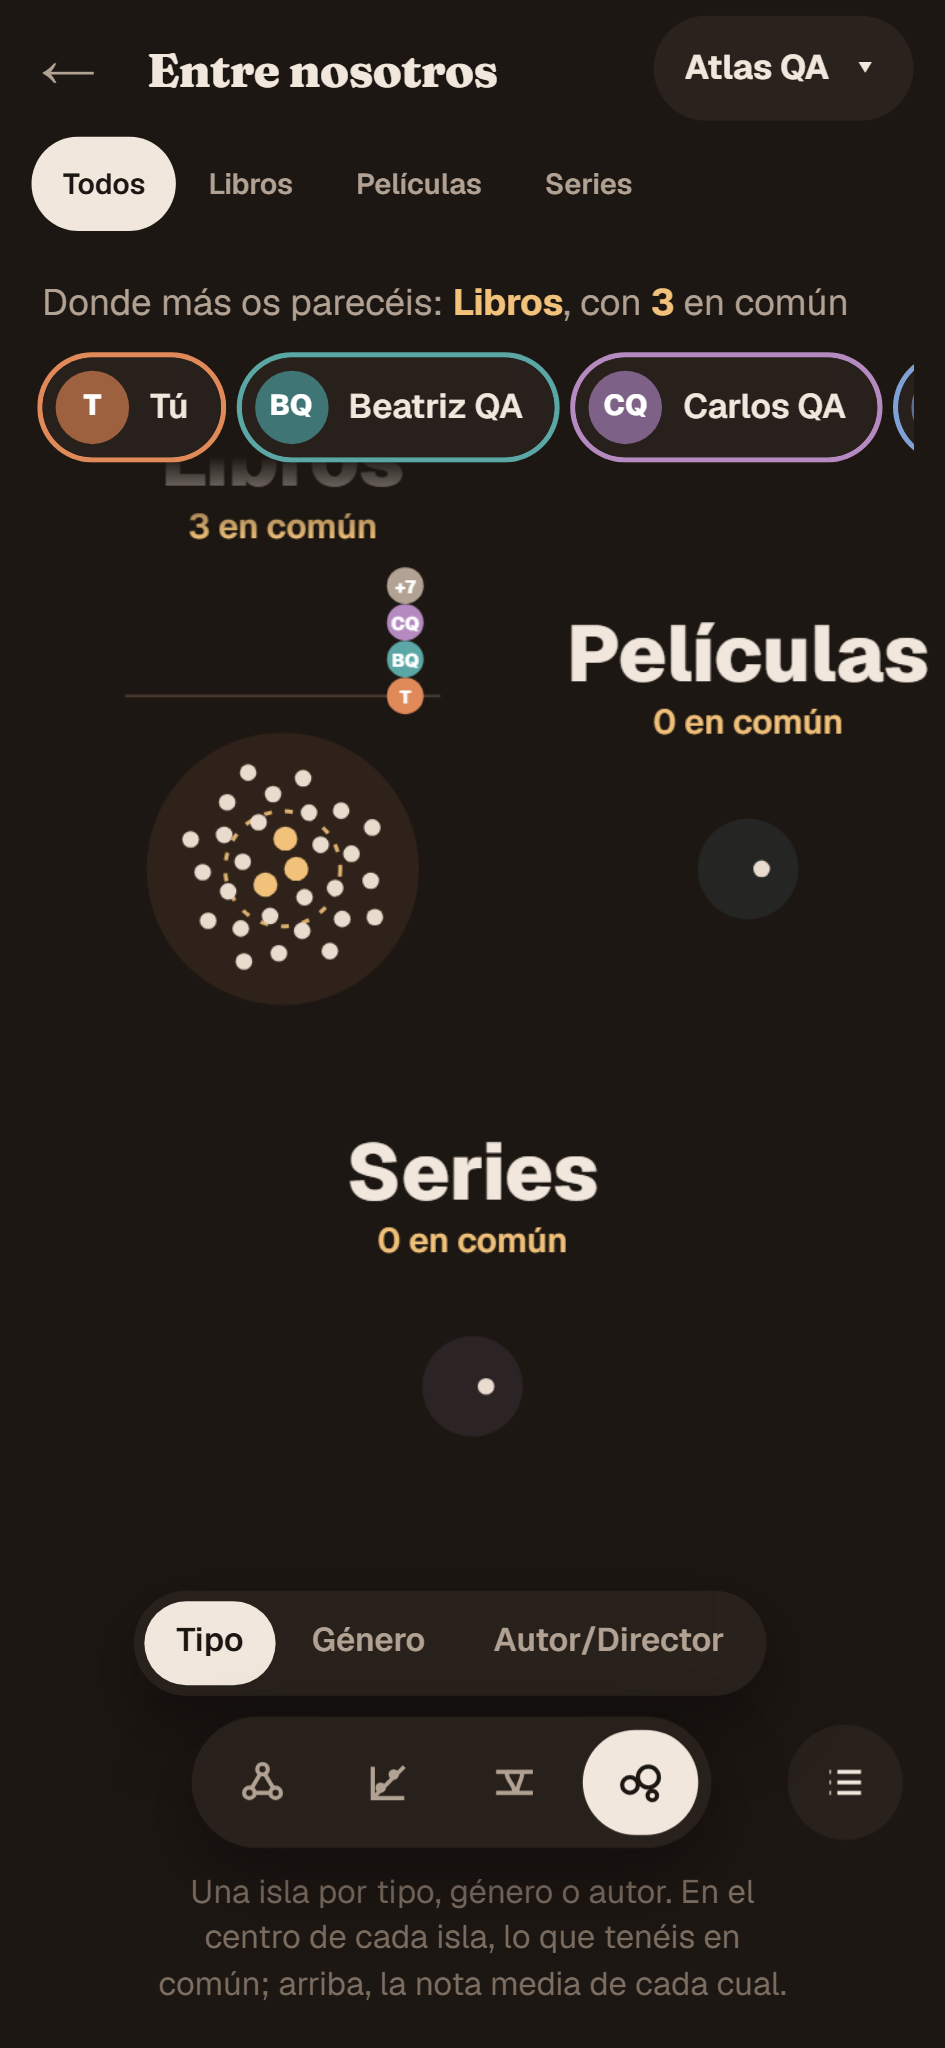
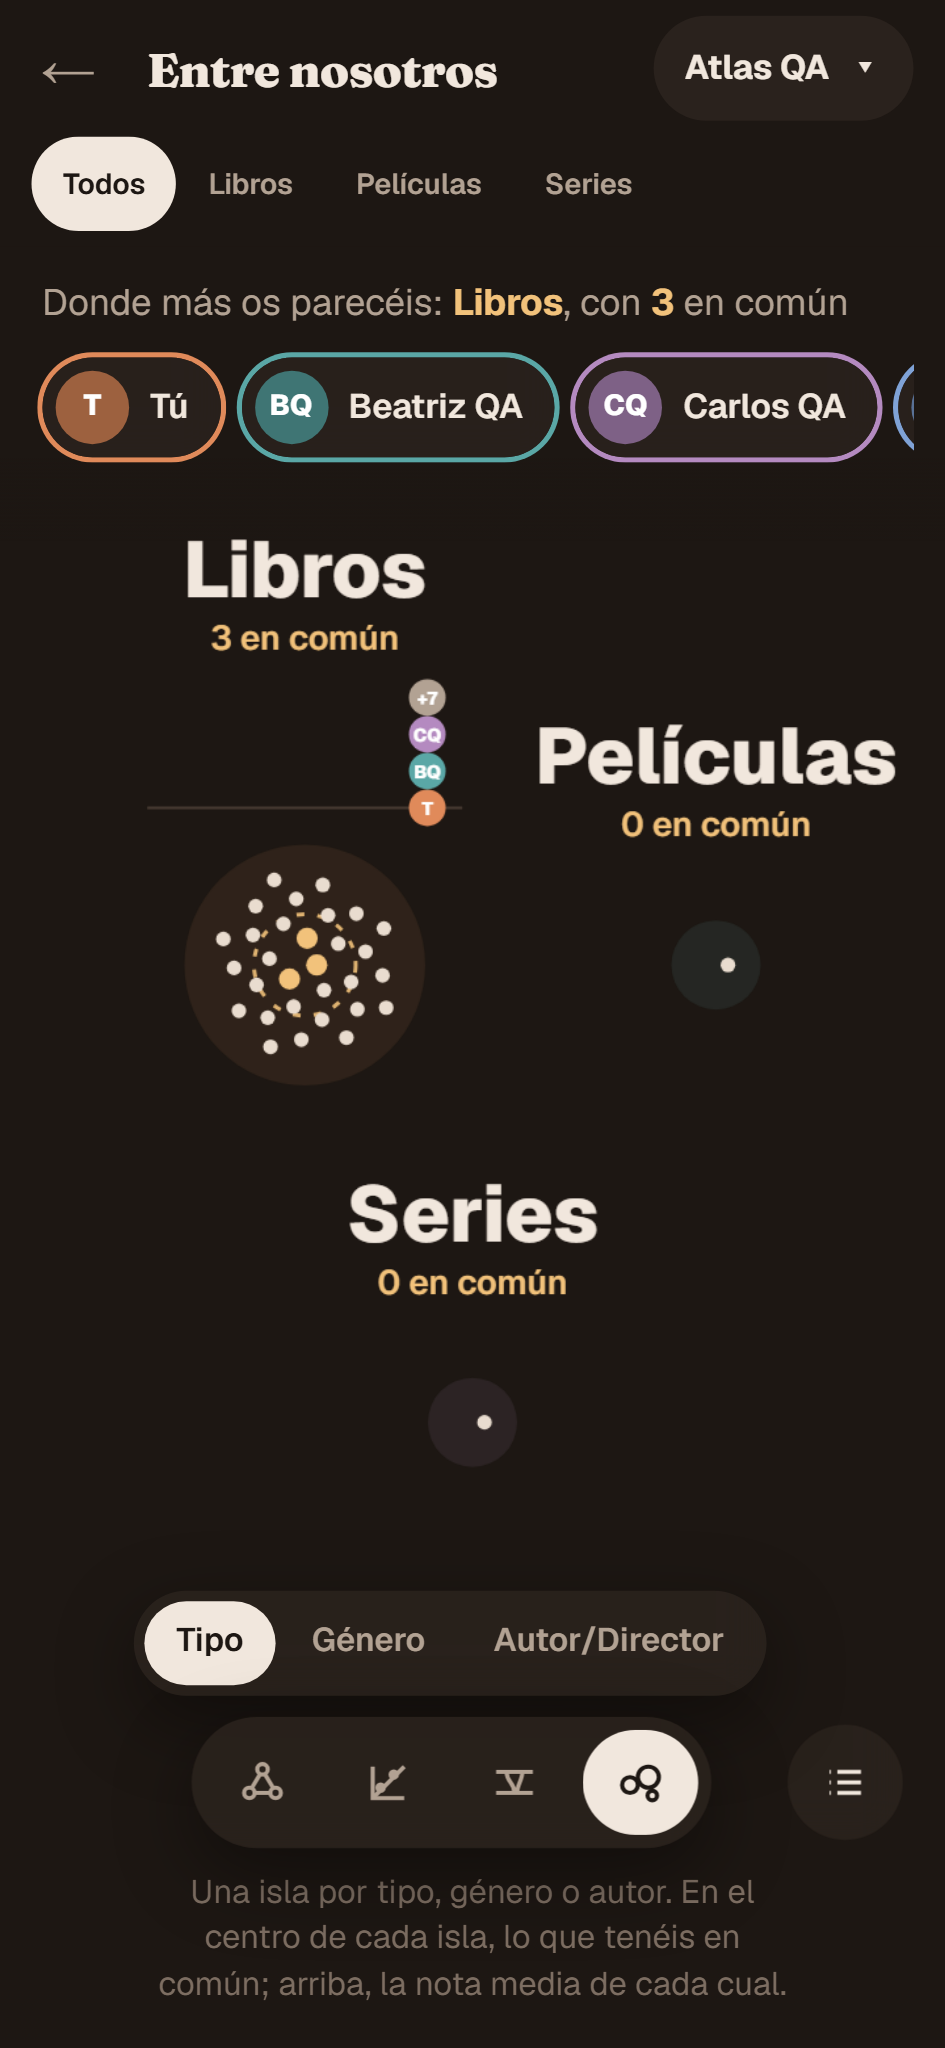
fix(entre-nosotros): títulos de Islas visibles en móviles estrechos

diff --git a/src/components/comparisons/atlas/paint-islas.ts b/src/components/comparisons/atlas/paint-islas.ts
@@ -7,6 +7,40 @@ import type { PaintView } from './atlas-palette';
 export type IslandText = { title: (island: Island) => string; common: (count: number) => string };
 const TYPE_TINT = { book: 'book', movie: 'movie', series: 'series' } as const;
 const STACK_MAX = 4;
+/** Screen px from a disc's top edge up to the title baseline and «n en común» baseline, before the stack lifts them. */
+const TITLE_GAP = 52, COMMON_GAP = 32;
+/** Largest title font (px); the fit reserves it whole, since the font size follows the zoom the fit is choosing. */
+const TITLE_MAX_PX = 30;
+const STRIP_WIDTH = 120;
+
+/**
+ * Faces with the same mean (to 0.1) stack upwards, 14 px per level as in the RatingScale. Dots are 14 px wide,
+ * so close but different means (8.9 and 9.0) would still cover each other: each dot takes the lowest level
+ * free of any dot less than 14 px away. Positions are screen px along the strip (0…STRIP_WIDTH), so they do
+ * not depend on the camera. `lift` is how far the texts rise with the (at most STACK_MAX high) stack.
+ */
+function placeFaces(island: Island, people: AtlasPerson[]) {
+  const placed: { person: AtlasPerson; x: number; level: number }[] = [];
+  for (const { userId, mean } of island.means) {
+    const person = people.find(item => item.id === userId); if (!person) continue;
+    const x = (Math.round(mean * 10) / 10 - 1) / 9 * STRIP_WIDTH;
+    let level = 0;
+    while (placed.some(dot => dot.level === level && Math.abs(dot.x - x) < 14)) level++;
+    placed.push({ person, x, level });
+  }
+  const lift = Math.max(0, ...placed.map(dot => Math.min(dot.level, STACK_MAX - 1))) * 14;
+  return { placed, lift };
+}
+
+/**
+ * Screen px the painter draws above the highest disc (title + «n en común» + means strip, risen with the stack).
+ * These texts keep their pixel size at any zoom, so a world margin in the extent cannot hold them: on a narrow
+ * phone the fit zooms out and a world margin shrinks below them. The engine adds this to the top inset instead.
+ */
+export function islandLabelRoom(layout: IslandsLayout, people: AtlasPerson[]): number {
+  if (!layout.islands.length) return 0;
+  return TITLE_GAP + TITLE_MAX_PX + Math.max(...layout.islands.map(island => placeFaces(island, people).lift));
+}
 
 /** Island discs, gold dashed ring around the common core, title + «n en común», and a 1–10 strip with each active face's mean. */
 export function paintIslasBack({ ctx, cam, vp, palette, text }: PaintView, { layout, people, text: words }: { layout: IslandsLayout; people: AtlasPerson[]; text?: IslandText }) {
@@ -20,28 +54,19 @@ export function paintIslasBack({ ctx, cam, vp, palette, text }: PaintView, { lay
       ctx.beginPath(); ctx.arc(c.x, c.y, island.core * k, 0, Math.PI * 2); ctx.stroke(); ctx.setLineDash([]); ctx.lineWidth = 1; ctx.globalAlpha = 1;
     }
     if (!words) continue;
-    // Faces with the same mean (to 0.1) stack upwards, 14 px per level as in the RatingScale. Dots are 14 px wide,
-    // so close but different means (8.9 and 9.0) would still cover each other: each dot takes the lowest level
-    // free of any dot less than 14 px away. A stack is at most 4 high (10 equal faces would push the title off
-    // screen): from the 4th up, a column's extra faces fold into one «+n» dot. The texts rise with the stack.
-    const width = 120, x0 = c.x - width / 2, y = c.y - r - 14;
-    const placed: { person: AtlasPerson; x: number; level: number }[] = [];
-    for (const { userId, mean } of island.means) {
-      const person = people.find(item => item.id === userId); if (!person) continue;
-      const x = x0 + (Math.round(mean * 10) / 10 - 1) / 9 * width;
-      let level = 0;
-      while (placed.some(dot => dot.level === level && Math.abs(dot.x - x) < 14)) level++;
-      placed.push({ person, x, level });
-    }
+    // A stack is at most 4 high (10 equal faces would push the title off screen): from the 4th up, a column's
+    // extra faces fold into one «+n» dot. The texts rise with the stack.
+    const width = STRIP_WIDTH, x0 = c.x - width / 2, y = c.y - r - 14;
+    const { placed: local, lift } = placeFaces(island, people);
+    const placed = local.map(dot => ({ ...dot, x: x0 + dot.x }));
     const dots = placed.filter(dot => dot.level < STACK_MAX - 1);
     const folds: { x: number; people: AtlasPerson[] }[] = [];
     for (const dot of placed.filter(item => item.level >= STACK_MAX - 1)) {
       const fold = folds.find(item => Math.abs(item.x - dot.x) < 14);
       if (fold) fold.people.push(dot.person); else folds.push({ x: dot.x, people: [dot.person] });
     }
-    const lift = Math.max(0, ...placed.map(dot => Math.min(dot.level, STACK_MAX - 1))) * 14;
-    text(words.title(island), c.x, c.y - r - 52 - lift, `800 ${Math.min(30, Math.max(14, 22 * k * 2.6))}px ${palette.font}`, palette.fg, 'center');
-    text(words.common(island.common), c.x, c.y - r - 32 - lift, `600 13px ${palette.font}`, palette.glow, 'center');
+    text(words.title(island), c.x, c.y - r - TITLE_GAP - lift, `800 ${Math.min(TITLE_MAX_PX, Math.max(14, 22 * k * 2.6))}px ${palette.font}`, palette.fg, 'center');
+    text(words.common(island.common), c.x, c.y - r - COMMON_GAP - lift, `600 13px ${palette.font}`, palette.glow, 'center');
     if (island.means.length) {
       ctx.strokeStyle = palette.line; ctx.lineWidth = 1; ctx.beginPath(); ctx.moveTo(x0, y); ctx.lineTo(x0 + width, y); ctx.stroke();
       const face = (x: number, level: number, color: string, label: string) => {

diff --git a/src/components/comparisons/atlas/atlas-canvas.test.tsx b/src/components/comparisons/atlas/atlas-canvas.test.tsx
@@ -12,6 +12,8 @@ import { buildScene, type Lens } from '@/lib/comparisons/atlas/scene';
 import { fit } from '@/lib/comparisons/atlas/camera';
 import { createRef } from 'react';
 import { AtlasCanvas, type AtlasCanvasHandle } from './atlas-canvas';
+import { paintIslasBack } from './paint-islas';
+import type { PaintView, Palette } from './atlas-palette';
 
 const snapshot: Snapshot = { group: { id: 'g', name: 'G', revision: 1, members: ['a', 'b'].map(id => ({ slotId: id, userId: id, name: id, avatarUrl: null, available: true })) },
   format: 'all', excludedSeriesWithoutEpisodes: 0, catalog: [],
@@ -372,6 +374,38 @@ describe('AtlasCanvas', () => {
       flush();
       expect(host.dataset.atlasZoom).toBe(fitZoom(800, 600, 200, 120));
     });
+  });
+
+  it('Islas en un móvil estrecho: el encaje deja los títulos de las islas bajo la fila de caras, no debajo', () => {
+    // Like the QA fixture: 10 people, 30 books rated alike by all (a 4-high stack of faces), a film and a series.
+    const ids = 'abcdefghij'.split('');
+    const keys = [...Array.from({ length: 30 }, (_, i) => `book:${i + 1}`), 'movie:1', 'series:1'] as WorkKey[];
+    const wide: Snapshot = { ...snapshot, group: { ...snapshot.group, members: ids.map(id => ({ slotId: id, userId: id, name: id, avatarUrl: null, available: true })) },
+      works: ids.flatMap(userId => keys.map(key => ({ userId, key, rating: key.startsWith('book') ? 9 : null, date: null, orderUnknown: false, progress: null }))) };
+    const model = atlasModel(wide, 'a', 'Tú');
+    const islas = layoutIslands(model.people, model.works, ids, 'type');
+    const islasScene = buildScene('islas', model.works, ids, { quien: layoutQuien(model.people, model.works),
+      opinion: layoutOpinion(model.people, model.works, ids), tiempo: layoutTiempo(model.people, model.works, ids), islas });
+    const width = 360, height = 740, insets = { top: 176, bottom: 175 };
+    vi.spyOn(Element.prototype, 'clientWidth', 'get').mockReturnValue(width);
+    vi.spyOn(Element.prototype, 'clientHeight', 'get').mockReturnValue(height);
+    const islandText = { title: () => 'Libros', common: (n: number) => `${n} en común` };
+    const onSettled = vi.fn();
+    render(<AtlasCanvas {...props} people={model.people} works={model.works} active={ids} scene={islasScene} islas={islas}
+      islandText={islandText} insets={insets} onSettled={onSettled}/>);
+    flush();
+    const cam = pick(onSettled.mock.lastCall![0]);
+    // Paint with the settled camera and read where the titles land (y is the baseline; the font size is in the font).
+    const text = vi.fn<PaintView['text']>();
+    const ctx = new Proxy({}, { get: () => () => {}, set: () => true }) as unknown as CanvasRenderingContext2D;
+    paintIslasBack({ ctx, cam, vp: { width, height }, palette: { font: 'sans', type: {} } as Palette, text }, { layout: islas, people: model.people, text: islandText });
+    const titles = text.mock.calls.filter(([value]) => value === 'Libros');
+    expect(titles).toHaveLength(islas.islands.length);
+    const top = Math.min(...titles.map(([, , y, font]) => y - Number(/(\d+(?:\.\d+)?)px/.exec(font)![1])));
+    expect(top).toBeGreaterThanOrEqual(insets.top);
+    // And the discs still fit above the dock.
+    const bottom = Math.max(...islas.islands.map(island => (island.y + island.r - cam.y) * cam.k + height / 2));
+    expect(bottom).toBeLessThanOrEqual(height - insets.bottom);
   });
 });
 const pick = ({ x, y, k }: { x: number; y: number; k: number }) => ({ x, y, k });

diff --git a/src/components/comparisons/atlas/atlas-engine.ts b/src/components/comparisons/atlas/atlas-engine.ts
@@ -14,7 +14,7 @@ import { paintLinks } from './paint-links';
 import { paintTiempoBack } from './paint-tiempo';
 import cdnLoader from '@/lib/images/cdn-loader';
 import { createImageCache, type ImageLike } from '@/lib/comparisons/atlas/image-cache';
-import { paintIslasBack, type IslandText } from './paint-islas';
+import { islandLabelRoom, paintIslasBack, type IslandText } from './paint-islas';
 import { nearestSprite, probeOf, stepSprites, syncSprites, type Sprite } from './atlas-sprites';
 
 export { COVER_ZOOM, TITLE_ZOOM } from './atlas-palette';
@@ -52,7 +52,18 @@ export function createAtlasEngine(canvas: HTMLCanvasElement, host: HTMLElement, 
   const insets = () => props().insets ?? { top: 75, bottom: 75 };
   /** Shifts a camera so that its focus lands in the middle of the band between the overlays. */
   const framed = (c: Camera): Camera => { const { top, bottom } = insets(); return { ...c, y: c.y - (top - bottom) / 2 / c.k }; };
-  const fitCamera = () => { const { top, bottom } = insets(); return framed(fit(props().scene.extent, vp, { x: 32, y: top + bottom + 24 })); };
+  /** Screen px the lens paints above its extent (Islas titles), reserved on top of the overlays when fitting. */
+  const labelRoom = () => { const p = props(); return p.scene.lens === 'islas' && p.islandText ? islandLabelRoom(p.islas, p.people) : 0; };
+  const fitCamera = () => {
+    const { top, bottom } = insets(), extent = props().scene.extent, room = labelRoom();
+    const c = fit(extent, vp, { x: 32, y: top + bottom + 24 });
+    if (!room) return framed(c);
+    // The labels only cap the zoom: folding them into `fit`'s pad would trip its «band under 40 %» fallback on a
+    // phone and drop the vertical constraint altogether.
+    const band = vp.height - top - bottom - 24 - room;
+    const k = band > 0 ? clamp(Math.min(c.k, band / (extent.maxY - extent.minY)), MIN_ZOOM, MAX_ZOOM) : c.k;
+    return { ...c, k, y: c.y - (top + room - bottom) / 2 / k };
+  };
   let lastFit: Camera | null = null; let insetsKey = ''; let touched = false; let restored = false;
   const refit = () => { lastFit = fitCamera(); target = lastFit; };
   /** Jump straight to the fit, no glide (the user has not seen the previous framing as theirs). */
@@ -92,7 +103,7 @@ export function createAtlasEngine(canvas: HTMLCanvasElement, host: HTMLElement, 
     }
     // Overlays measured after the first fit: reframe only while the camera still rests on (or heads to) that fit;
     // before any interaction (initial load) jump there instead of gliding.
-    const nextInsets = JSON.stringify(insets());
+    const nextInsets = JSON.stringify([insets(), labelRoom()]);
     if (nextInsets !== insetsKey) {
       insetsKey = nextInsets;
       if (fitted && atFit()) { if (touched) refit(); else snapFit(); }

diff --git a/src/lib/comparisons/atlas/islands.ts b/src/lib/comparisons/atlas/islands.ts
@@ -8,7 +8,7 @@ export const ISLAND_STEP = 11;
 export const OTHER_ISLAND = 'other';
 const TYPE_ORDER = ['book', 'movie', 'series'] as const;
 const GAP = 160;          // between island discs
-const LABEL_ROOM = 110;   // title + «n en común» + means strip above each disc
+const LABEL_ROOM = 110;   // world gap between rows for the next row's title + «n en común» + means strip
 
 export type Island = Point & { id: string; label: string | null; r: number; core: number; keys: WorkKey[]; common: number; shared: number; means: { userId: string; mean: number }[] };
 export type IslandInstance = Point & { key: WorkKey; island: string };
@@ -79,7 +79,9 @@ export function layoutIslands(people: AtlasPerson[], works: AtlasWork[], active:
   }));
   const extent = islands.length
     ? { minX: Math.min(...islands.map(i => i.x - i.r)) - 60, maxX: Math.max(...islands.map(i => i.x + i.r)) + 60,
-        minY: Math.min(...islands.map(i => i.y - i.r - LABEL_ROOM)) - 20, maxY: Math.max(...islands.map(i => i.y + i.r)) + 60 }
+        // The texts above the top row are screen px (they do not scale with the zoom): the engine reserves them
+        // as a top inset (islandLabelRoom), so the extent stops at the discs.
+        minY: Math.min(...islands.map(i => i.y - i.r)) - 20, maxY: Math.max(...islands.map(i => i.y + i.r)) + 60 }
     : { minX: -300, maxX: 300, minY: -300, maxY: 300 };
   return { mode, islands, instances, extent };
 }

diff --git a/docs/testing/2026-10-14-entre-nosotros-atlas-f4.md b/docs/testing/2026-10-14-entre-nosotros-atlas-f4.md
@@ -69,7 +69,7 @@ Escritorio 1280×800:
 
 Móvil:
 - [mobile-list.png](assets/2026-10-14-entre-nosotros-atlas-f4/mobile-list.png) (Pixel 7).
-- [mobile-islas-dock-pixel7.png](assets/2026-10-14-entre-nosotros-atlas-f4/mobile-islas-dock-pixel7.png), [mobile-islas-dock-375.png](assets/2026-10-14-entre-nosotros-atlas-f4/mobile-islas-dock-375.png), [mobile-islas-dock-360.png](assets/2026-10-14-entre-nosotros-atlas-f4/mobile-islas-dock-360.png): dock con Islas pulsada. A 360 px: modos 51–292, lentes 73–271, «Ver como lista» 300–344; sin solapes y sin scroll horizontal.
+- [mobile-islas-dock-pixel7.png](assets/2026-10-14-entre-nosotros-atlas-f4/mobile-islas-dock-pixel7.png), [mobile-islas-dock-375.png](assets/2026-10-14-entre-nosotros-atlas-f4/mobile-islas-dock-375.png), [mobile-islas-dock-360.png](assets/2026-10-14-entre-nosotros-atlas-f4/mobile-islas-dock-360.png): dock con Islas pulsada (las de 360 y 375 rehechas tras el arreglo del título de Islas). A 360 px: modos 51–292, lentes 73–271, «Ver como lista» 300–344; sin solapes y sin scroll horizontal.
 
 Sin scroll horizontal en ninguna (`scrollWidth ≤ innerWidth`).
 
@@ -77,7 +77,7 @@ Sin scroll horizontal en ninguna (`scrollWidth ≤ innerWidth`).
 
 - *(Arreglado.)* Sin anillo de foco en el lienzo.
 - *(Arreglado.)* Primer encabezado de la lista difuminado bajo el resumen; pie de la lente encima de las filas.
-- **Islas a 360 y 375 px: el título «Libros» queda tapado por la fila de caras.** A 412 px (Pixel 7) se lee entero. El encaje no reserva la altura del título de la isla en píxeles de pantalla. No se arregla aquí: toca el encaje del motor.
+- *(Arreglado.)* **Islas a 360 y 375 px: el título «Libros» quedaba tapado por la fila de caras** (a 412 px se leía entero). Causa: el extent de Islas reservaba el hueco de los textos de arriba (título, «n en común», tira de medias y su pila de caras) como 110 unidades de **mundo**, pero el pintor los dibuja a tamaño fijo en **píxeles de pantalla** (hasta 52 + 42 + 30 px sobre el disco). En un móvil estrecho el encaje aleja la cámara (k menor) y ese margen de mundo encoge por debajo de los textos. Arreglo: el extent de Islas se detiene en los discos y el motor suma `islandLabelRoom()` (píxeles, calculado con la misma colocación de caras que el pintor) al inset superior al encajar, solo con la lente Islas; ese hueco solo limita el zoom, para no disparar el respaldo de `fit` cuando la banda libre baja del 40 %. Prueba en `atlas-canvas.test.tsx` (360×740, insets 176/175, 10 caras con la misma media): el borde superior del título queda bajo el inset y los discos sobre el dock; antes del arreglo el título empezaba en y = 144 < 176. Capturas rehechas a 360×780 y 375×780 con el fixture integrado: «Libros» y «3 en común» se leen enteros bajo la fila de caras.
 - **Las portadas a zoom 2,8 son pequeñas** (~24 px de ancho) y sin título: es el umbral `TITLE_ZOOM`, sin cambios.
 - **El anillo de foco sigue tras clicar en el lienzo** si el foco llegó antes por teclado (`desktop-covers.png`): es como funciona `:focus-visible`.
 - La lista de Opinión no tiene encabezados y, con todas las notas iguales, el orden por |dif| no se aprecia.
